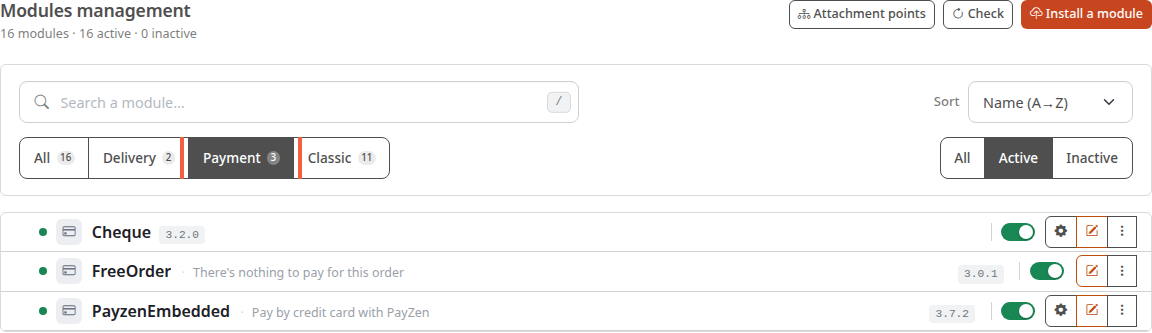
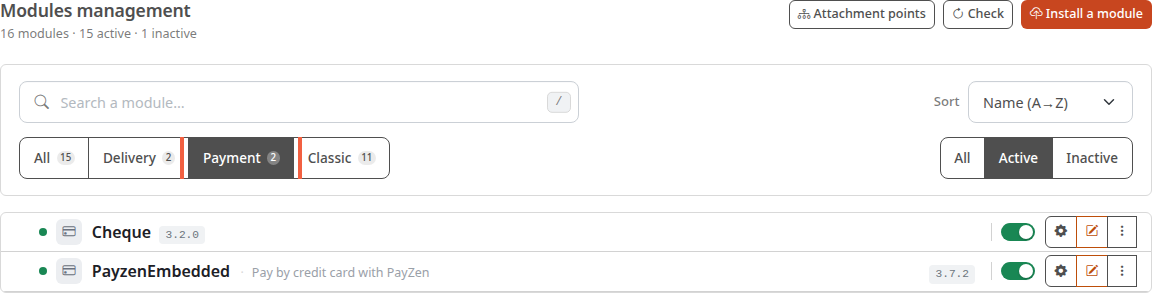
feat(payment-delivery): show a disabled payment module and the warning of a zone without carrier

diff --git a/src/content/docs/payment-delivery/enable-payment.md b/src/content/docs/payment-delivery/enable-payment.md
@@ -12,6 +12,7 @@ sources:
   - thelia-templates/default-twig:module/list.html.twig:113
   - thelia-templates/default-twig:module/list.html.twig:192
   - thelia-templates/default-twig:src/Controller/Module/ModuleController.php:73
+  - thelia-templates/default-twig:src/Controller/Module/ModuleController.php:82
   - thelia-templates/default-twig:src/Controller/Module/ModuleController.php:184
   - thelia-templates/default-twig:src/Service/Module/ModuleListPresenter.php:135
   - thelia-templates/default-twig:src/Service/Module/ModuleListPresenter.php:165
@@ -42,7 +43,7 @@ Un moyen de paiement est la façon dont vos clients règlent leur commande, par 
 1. Dans le menu de gauche, cliquez sur **Modules**.
 2. Dans le sous-menu, cliquez sur **Modules**.
 
-La page **Gestion des modules** liste tous les modules de la boutique. Sous le titre, une ligne donne le total, par exemple « 16 modules · 16 actifs · 0 inactifs ».
+La page **Gestion des modules** liste tous les modules de la boutique. Sous le titre, une ligne donne le total, par exemple « 16 modules · 15 actifs · 1 inactifs ».
 
 ![Liste des modules de la boutique](../../../assets/captures/fr/payment-delivery/enable-payment/modules-list.png)
 
@@ -53,17 +54,21 @@ Un module peut servir à autre chose qu'à payer : livrer, ajouter une fonction 
 1. Cliquez sur **Paiement**, dans la rangée de boutons à gauche sous le champ de recherche.
 2. Regardez la rangée de boutons à droite : **Actif** est sélectionné d'office. Les modules désactivés sont donc cachés. Cliquez sur **Tous** ou sur **Inactif** pour les voir.
 
-![Les trois moyens de paiement de la boutique](../../../assets/captures/fr/payment-delivery/enable-payment/payment-filter.png)
+![Les moyens de paiement actifs de la boutique](../../../assets/captures/fr/payment-delivery/enable-payment/payment-filter.png)
+
+Sur la capture, deux moyens de paiement sont actifs : **Cheque** et **PayzenEmbedded**. **FreeOrder** n'y figure pas : il a été désactivé pour l'exemple (dans la boutique de démonstration, il est actif). Avec **Inactif**, il apparaît, interrupteur gris :
+
+![FreeOrder, moyen de paiement désactivé, dans le filtre Inactif](../../../assets/captures/fr/payment-delivery/enable-payment/payment-inactive.png)
 
 Dans la boutique de démonstration, trois moyens de paiement sont installés :
 
 - **Cheque** : le client paie par chèque. Ce moyen est proposé quand le total de la commande est supérieur à 0.
-- **FreeOrder** : « Commande gratuite ». Il est proposé quand le total de la commande est exactement 0, par exemple après un code promo qui couvre tout. Il marque alors la commande comme payée, sans que le client ait à payer quoi que ce soit.
+- **FreeOrder** : « There's nothing to pay for this order » (la liste affiche les titres des modules dans la langue par défaut de la boutique, ici l'anglais). Il est proposé quand le total de la commande est exactement 0, par exemple après un code promo qui couvre tout. Il marque alors la commande comme payée, sans que le client ait à payer quoi que ce soit.
 - **PayzenEmbedded** : paiement par carte bancaire, avec le prestataire de paiement PayZen. Il demande un compte chez ce prestataire. Il n'est proposé qu'une fois réglé (voir l'étape 4), et quand le total de la commande est compris entre les montants minimum et maximum réglés. Tant qu'il n'est pas en mode production, seuls les visiteurs dont l'adresse IP est autorisée dans ses réglages le voient.
 
 ## Étape 3 : activer ou désactiver un module
 
-Chaque ligne a un interrupteur. Quand il est vert et allumé, comme sur la capture, le module est actif.
+Chaque ligne a un interrupteur. Quand il est vert et allumé, comme sur la capture, le module est actif. Un interrupteur gris et éteint, comme celui de **FreeOrder** ci-dessus, signale un module désactivé.
 
 1. Repérez la ligne du moyen de paiement, par exemple **Cheque**.
 2. Cliquez sur l'interrupteur à droite de la ligne.

diff --git a/src/content/docs/en/payment-delivery/enable-payment.md b/src/content/docs/en/payment-delivery/enable-payment.md
@@ -1,5 +1,5 @@
 ---
-translatedFrom: 325e1a6b8beb
+translatedFrom: a837ea5c1225
 title: Enable a payment method
 description: Choose which of the installed payment modules your customers can use to pay for an order.
 sidebar:
@@ -13,6 +13,7 @@ sources:
   - thelia-templates/default-twig:module/list.html.twig:113
   - thelia-templates/default-twig:module/list.html.twig:192
   - thelia-templates/default-twig:src/Controller/Module/ModuleController.php:73
+  - thelia-templates/default-twig:src/Controller/Module/ModuleController.php:82
   - thelia-templates/default-twig:src/Controller/Module/ModuleController.php:184
   - thelia-templates/default-twig:src/Service/Module/ModuleListPresenter.php:135
   - thelia-templates/default-twig:src/Service/Module/ModuleListPresenter.php:165
@@ -43,7 +44,7 @@ A payment method is the way your customers pay for their order, for example by c
 1. In the left menu, click **Modules**.
 2. In the submenu, click **Modules**.
 
-The **Modules management** page lists every module in the store. Under the title, a line gives the total, for example "16 modules · 16 active · 0 inactive".
+The **Modules management** page lists every module in the store. Under the title, a line gives the total, for example "16 modules · 15 active · 1 inactive".
 
 ![List of the store's modules](../../../../assets/captures/en/payment-delivery/enable-payment/modules-list.png)
 
@@ -54,7 +55,11 @@ A module can do something other than take payments: deliver orders, or add a fea
 1. Click **Payment**, in the row of buttons on the left under the search field.
 2. Look at the row of buttons on the right: **Active** is selected by default, so disabled modules are hidden. Click **All** or **Inactive** to see them.
 
-![The store's three payment methods](../../../../assets/captures/en/payment-delivery/enable-payment/payment-filter.png)
+![The store's active payment methods](../../../../assets/captures/en/payment-delivery/enable-payment/payment-filter.png)
+
+In the screenshot, two payment methods are active: **Cheque** and **PayzenEmbedded**. **FreeOrder** is not listed: it was disabled for this example (it is enabled in the demo store). With **Inactive**, it shows up with a gray switch:
+
+![FreeOrder, a disabled payment method, in the Inactive filter](../../../../assets/captures/en/payment-delivery/enable-payment/payment-inactive.png)
 
 In the demo store, three payment methods are installed:
 
@@ -64,7 +69,7 @@ In the demo store, three payment methods are installed:
 
 ## Step 3: enable or disable a module
 
-Each row has a switch. When it is green and turned on, as in the screenshot, the module is active.
+Each row has a switch. When it is green and turned on, as in the screenshot, the module is active. A gray, turned-off switch, like the one of **FreeOrder** above, means the module is disabled.
 
 1. Find the row of the payment method, for example **Cheque**.
 2. Click the switch on the right of the row.

diff --git a/src/content/docs/en/payment-delivery/enable-delivery.md b/src/content/docs/en/payment-delivery/enable-delivery.md
@@ -1,5 +1,5 @@
 ---
-translatedFrom: fe92cfcecc55
+translatedFrom: aa7f531851b2
 title: Enable a delivery method and attach zones to it
 description: Enable a delivery method, then tell it which zones it delivers to, so your customers can choose it.
 sidebar:
@@ -61,7 +61,7 @@ The **Shipping configuration** screen lists each delivery method and, next to it
 
 ![List of delivery methods and their zones](../../../../assets/captures/en/payment-delivery/enable-delivery/zones-list.png)
 
-A method with no zone shows "There are no shipping zones attached to this module." A **Warning** banner may also appear above the table. It is explained in step 4.
+A method with no zone shows "There are no shipping zones attached to this module." In the screenshot, a **Warning** banner appears above the table: it lists the zone **Suisse**, created for this example and not attached to any delivery method. It is explained in step 4.
 
 ## Step 3: attach a zone to the delivery method
 
@@ -80,6 +80,10 @@ The screenshot shows **VirtualProductDelivery**, the only demo module without a 
 ## Step 4: understand the warning about unattached zones
 
 The banner appears when at least one zone is attached to no delivery method. It reads "**Warning**, some of your shipping zones are not attached to any delivery module:", followed by the list of the zones concerned.
+
+![Warning banner listing the zone Suisse](../../../../assets/captures/en/payment-delivery/enable-delivery/warning.png)
+
+The **Suisse** zone in the screenshot has no country: the banner lists it anyway, because it only looks at the attachment to delivery methods.
 
 For a customer whose country belongs only to those zones, no delivery method is offered for physical products: the store offers a method only if the zone of the delivery country is attached to it. To fix it, attach the zone to a delivery method as in step 3. The zone name in the banner opens the screen of its countries, not the attachment screen.
 

diff --git a/src/content/docs/payment-delivery/enable-delivery.md b/src/content/docs/payment-delivery/enable-delivery.md
@@ -60,7 +60,7 @@ L'écran **Configuration du transport** liste chaque mode de livraison et, en fa
 
 ![Liste des modes de livraison et de leurs zones](../../../assets/captures/fr/payment-delivery/enable-delivery/zones-list.png)
 
-Un mode sans zone affiche « Ce module de transport n'est associé à aucune zone de livraison ». Un bandeau **Attention** peut aussi apparaître au-dessus du tableau. Il est expliqué à l'étape 4.
+Un mode sans zone affiche « Ce module de transport n'est associé à aucune zone de livraison ». Sur la capture, un bandeau **Attention** apparaît au-dessus du tableau : il cite la zone **Suisse**, créée pour l'exemple, qui n'est rattachée à aucun mode de livraison. Il est expliqué à l'étape 4.
 
 ## Étape 3 : rattacher une zone au mode de livraison
 
@@ -79,6 +79,10 @@ La capture montre **VirtualProductDelivery**, seul module de la démonstration s
 ## Étape 4 : comprendre l'avertissement sur les zones non rattachées
 
 Le bandeau apparaît quand au moins une zone n'est rattachée à aucun mode de livraison. Il dit « **Attention**, certaines de vos zones de livraison ne sont rattachées à aucun module de livraison : », suivi de la liste des zones concernées.
+
+![Bandeau Attention qui cite la zone Suisse](../../../assets/captures/fr/payment-delivery/enable-delivery/warning.png)
+
+La zone **Suisse** de la capture n'a aucun pays : le bandeau la cite quand même, car il ne regarde que le rattachement aux modes de livraison.
 
 Pour un client dont le pays n'appartient qu'à ces zones, aucun mode de livraison n'est proposé pour des produits physiques : la boutique ne propose un mode que si la zone du pays de livraison lui est rattachée. Pour corriger, rattachez la zone à un mode de livraison comme à l'étape 3. Le nom de la zone dans le bandeau ouvre l'écran de ses pays, pas celui du rattachement.
 
